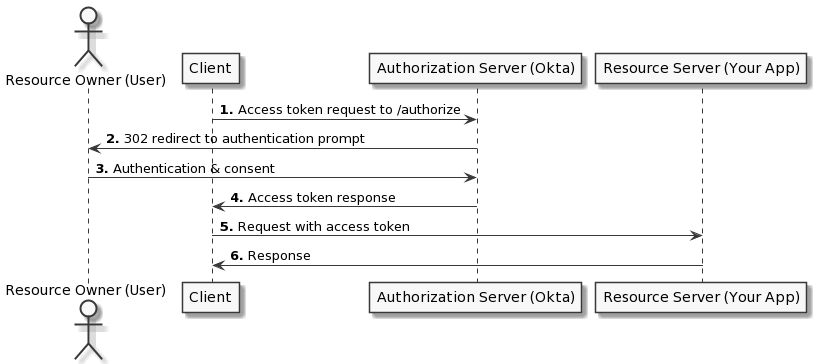
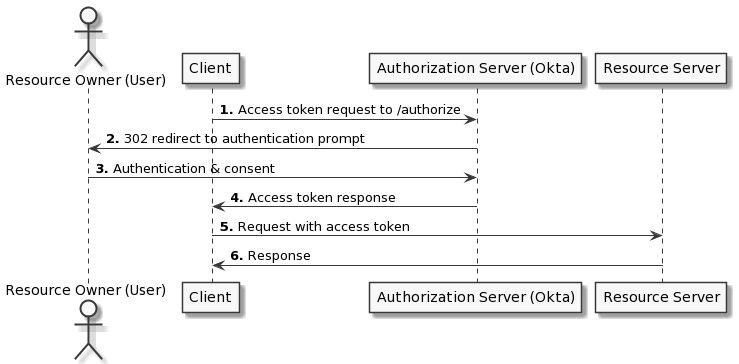
continue to reorganize implicit, auth code, auth code with pkce content

diff --git a/packages/@okta/vuepress-site/docs/guides/implement-grant-type/main/implicit/flow-diagram.md b/packages/@okta/vuepress-site/docs/guides/implement-grant-type/main/implicit/flow-diagram.md
@@ -1,4 +1,4 @@
-![Implicit flow width:](/img/authorization/oauth-implicit-grant-flow.png "Sequence diagram that displays the back and forth between the resource owner, authorization server, and resource server for Implicit grant flow")
+![Implicit flow](/img/authorization/oauth-implicit-grant-flow.png "Sequence diagram that displays the back and forth between the resource owner, authorization server, and resource server for Implicit grant flow")
 
 <!-- Source for image. Generated using http://www.plantuml.com/plantuml/uml/
 
@@ -6,7 +6,7 @@ skinparam monochrome true
 actor "Resource Owner (User)" as user
 participant "Client" as client
 participant "Authorization Server (Okta)" as okta
-participant "Resource Server (Your App)" as app
+participant "Resource Server" as app
 
 autonumber "<b>#."
 client -> okta: Access token request to /authorize
@@ -19,13 +19,15 @@ app -> client: Response
 -->
 The Implicit flow contains the following interactions:
 
-1. The User makes an access request to your app (the Client). Your app needs to handle this request and redirect the authentication request to the Auth Server (Okta). See [Redirect to Auth Server Code](#redirect-to-auth-server-for-code) to implement this request. Before implementing this request, you need to [Set up your app](#set-up-your-app) to obtain an Okta Client ID, that will 
-2. In Okta, you need to register your app so that Okta can accept the authentication request. See Set up your app to register and configure your app with Okta. After registration, Okta provides you with a Client ID that you can embed in your app to make a trusted request to Okta.
-3. Okta authenticates the user credentials. To do this, Okta needs the user profile data. 
-See Add app users. Alternatively, you can enable Self-service registration to allow users to register their membership with the app. Okta also needs to know where to redirect the ID token once authentication is successful. See Sign-in redirect URI parameter in Set up your app.
-4. Your app needs to implement the callback route to accept the redirect request from (3). See Define a callback route. This callback route path must match the Sign-in redirect URI configured in (3).
+1. The Client sends a request to the Auth Server (Okta) for an access token.<br>
+You need to register your app so that Okta can accept the authorization request. See [Set up your app](#set-up-your-app) to register and configure your app with Okta. After registration, your app can initiate this authorization request to Okta. See [Redirect to Auth Server](#redirect-to-auth-server) to implement this request.
 
-1. Your application directs the browser to the Okta Sign-In Page, where the user authenticates.
-1. Okta redirects the browser back to the specified redirect URI, along with access and ID tokens as a hash fragment in the URI.
-1. Your application extracts the tokens from the URI.
-1. Your application can now use these tokens to call the resource server (for example an API) on behalf of the user.
+2. The Auth Server redirects the User browser to an authentication prompt (the Okta Sign-In Page), where the user authenticates.
+
+3. User authenticates with the Auth Server (Okta) and provides consent. <br>
+In order for Okta to authenticate the user credentials, Okta needs user profile data.
+See [Add a user using Console](/docs/guides/quickstart/cli/add-user/). Alternatively, you can [Set up Self-service registration](/docs/guides/set-up-self-service-registration/) to allow users to register their membership with the app.
+
+4. Okta redirects the browser back to the specified redirect URI, along with access and ID tokens as a hash fragment in the URI.<br>
+The redirect URI is specified when your app was registered in Okta.
+5. Your application extracts the tokens from the URI and can now use these tokens to call the resource server (for example an API) on behalf of the user. See [Access token response](#access-token-response).

diff --git a/packages/@okta/vuepress-site/docs/guides/implement-grant-type/main/authcode/use-flow.md b/packages/@okta/vuepress-site/docs/guides/implement-grant-type/main/authcode/use-flow.md
@@ -1,3 +1,5 @@
+### Use the Authorization Code flow
+
 To get an authorization code, your app redirects the user to your [Authorization Server's](/docs/concepts/auth-servers/) `/authorize` endpoint. If you are using the default Custom Authorization Server, then your request URL would look something like this:
 
 ```
@@ -22,3 +24,52 @@ http://localhost:8080/?code=P5I7mdxxdv13_JfXrCSq&state=state-296bc9a0-a2a2-4a57-
 ```
 
 This code remains valid for 300 seconds, during which it can be exchanged for tokens.
+
+### Exchange the code for tokens
+
+To exchange this code for access and ID tokens, you pass it to your [Authorization Server's](/docs/concepts/auth-servers/) `/token` endpoint. If you are using the default Custom Authorization Server, then your request would look something like this:
+
+```
+curl --request POST \
+  --url https://${yourOktaDomain}/oauth2/default/v1/token \
+  --header 'accept: application/json' \
+  --header 'authorization: Basic MG9hY...' \
+  --header 'content-type: application/x-www-form-urlencoded' \
+  --data 'grant_type=authorization_code&redirect_uri=http%3A%2F%2Flocalhost%3A8080&code=P59yPm1_X1gxtdEOEZjn'
+```
+
+> **Important:** The call to the `/token` endpoint requires authentication. In this case, it is a Basic Auth digest of the Client ID and secret. You can find the Client ID and secret on your application's **General** tab. This requirement is why this call is only appropriate for applications that can guarantee the confidentiality of the client secret. See [Client Authentication Methods](/docs/reference/api/oidc/#client-authentication-methods).
+
+Note the parameters that are being passed:
+
+- `grant_type` is `authorization_code`, indicating that we are using the authorization code grant type.
+- `redirect_uri` must match the URI that was used to get the authorization code.
+- `code` is the authorization code that you got from the `/authorize` endpoint.
+
+See the [OAuth 2.0 API reference](/docs/reference/api/oidc/#token) for more information on these parameters.
+
+If the code is still valid, your application receives back access and ID tokens:
+
+```json
+{
+    "access_token": "eyJhbG[...]9pDQ",
+    "token_type": "Bearer",
+    "expires_in": 3600,
+    "scope": "openid",
+    "id_token": "eyJhbG[...]RTM0A"
+}
+```
+
+### Validate access tokens
+
+When your application passes a request with an `access_token`, the resource server needs to validate it. See [Validate access tokens](/docs/guides/validate-access-tokens/).
+
+### Examples
+
+The following web application examples show you the Authorization Code flow, as it would be implemented by a web app that needs to authenticate the end user and then create a local session for that user. These projects use popular web frameworks to handle the heavy lifting. Each project can be cloned and ran locally.
+
+|                                       | Framework    | Example Repository                                             |
+| :-----------------------------------: | ------------ | -------------------------------------------------------------- |
+| <i class="icon code-dotnet-32"></i>   | ASP.NET Core | <https://github.com/oktadeveloper/okta-aspnetcore-mvc-example> |
+| <i class="icon code-nodejs-32"></i>   | Express.js   | <https://github.com/okta/samples-nodejs-express-4>             |
+| <i class="icon code-java-32"></i>     | Spring       | <https://github.com/okta/samples-java-spring-mvc>              |

diff --git a/packages/@okta/vuepress-site/docs/guides/implement-grant-type/main/authcodepkce/use-flow.md b/packages/@okta/vuepress-site/docs/guides/implement-grant-type/main/authcodepkce/use-flow.md
@@ -1,3 +1,5 @@
+### Use the Authorization Code flow with PKCE
+
 Just like with the regular Authorization Code flow, your app starts by redirecting the user's browser to your [Authorization Server's](/docs/concepts/auth-servers/) `/authorize` endpoint. However, in this instance you also have to pass along a code challenge.
 
 Your first step is to generate a code verifier and challenge:
@@ -43,3 +45,53 @@ yourApp:/callback?code=BdLDvZvO3ZfSwg-asLNk&state=state-8600b31f-52d1-4dca-987c-
 ```
 
 This code can only be used once, and remains valid for 300 seconds, during which time it can be exchanged for tokens.
+
+### Exchange the code for tokens
+
+To exchange this code for access and ID tokens, you pass it to your [Authorization Server's](/docs/concepts/auth-servers/) `/token` endpoint along with the `code_verifier` that was generated at the beginning:
+
+```
+curl --request POST \
+  --url https://${yourOktaDomain}/oauth2/default/v1/token \
+  --header 'accept: application/json' \
+  --header 'cache-control: no-cache' \
+  --header 'content-type: application/x-www-form-urlencoded' \
+  --data 'grant_type=authorization_code&client_id=0oabygpxgk9lXaMgF0h7&redirect_uri=yourApp%3A%2Fcallback&code=CKA9Utz2GkWlsrmnqehz&code_verifier=M25iVXpKU3puUjFaYWg3T1NDTDQtcW1ROUY5YXlwalNoc0hhakxifmZHag'
+```
+
+> **Important:** Unlike the regular [Authorization Code flow](/docs/guides/implement-auth-code/), this call doesn't require the Authorization header with the Client ID and secret. That is why this version of the Authorization Code flow is appropriate for native apps.
+
+Note the parameters that are being passed:
+
+- `grant_type` is `authorization_code`, indicating that we are using the authorization code grant type.
+- `redirect_uri` must match the URI that was used to get the authorization code.
+- `code` is the authorization code that you got from the `/authorize` endpoint.
+- `code_verifier` is the PKCE code verifier that your app generated at the beginning of this flow.
+- `client_id` identifies your client and must match the value preregistered in Okta.    
+
+See the [OIDC & OAuth 2.0 API reference](/docs/reference/api/oidc/#token) for more information on these parameters.
+
+If the code is still valid, and the code verifier matches, your application receives back access and ID tokens:
+
+```json
+{
+    "access_token": "eyJhb[...]Hozw",
+    "expires_in": 3600,
+    "id_token": "eyJhb[...]jvCw",
+    "scope": "openid",
+    "token_type": "Bearer"
+}
+```
+
+### Validate access tokens
+
+When your application passes a request with an access token, the resource server needs to validate it. See [Validate access tokens](/docs/guides/validate-access-tokens/).
+
+### Examples
+
+The following native application examples show the Authorization Code flow, as it would be implemented by a native application that needs to authenticate a user. These are complete example applications that show the entire experience.
+
+|                                        | Environment | Example Repository                                 |
+| :------------------------------------: | ----------- | -------------------------------------------------- |
+| <i class="icon code-android-32"></i>   | Android     | <https://github.com/okta/okta-oidc-android> |
+| <i class="icon code-ios-32"></i>       | iOS         | <https://github.com/okta/okta-oidc-ios>            |

diff --git a/packages/@okta/vuepress-site/docs/guides/implement-grant-type/main/index.md b/packages/@okta/vuepress-site/docs/guides/implement-grant-type/main/index.md
@@ -16,53 +16,37 @@ Select the authorization grant-type flow to implement: <StackSelector />
 
 <StackSnippet snippet="flow-diagram"/>
 
-### Flow usage
-
-<StackSnippet snippet="use-flow" />
-
 ### Set up your app
+
+Before you can implement authorization, you need to register your app in Okta by creating an Okta app integration from the Admin Console.
 
 <StackSnippet snippet="setup-app" />
 
-- Stack selector for App Wizard settings
-
-| Parameter | Description        |
-| --------- | ----------- |
-| Sign-on method  | xxx |
-| App type  | xxx |
-| Grant type | xxx |
-| Sign-in redirect URIs | xxx |
-
+Save the Okta Client ID (`client_id`) value generated from the created app integration to implement your authorization flow.
 
 ### Install an Okta SDK
 
-- stack selector for which SDK you can use for the grant type
-- this could be links to other actions from the Sign-in guides
+Okta provides an array of language and framework SDKs to speed up implementing authorization with Okta. See [Languages & SDKs overivew](/code/) for a list of SDKs you can download to start using with your app.
 
-### Redirect to Auth Server for code
+<StackSnippet snippet="install-sdk" />
 
-- stack selector for info on how to implement redirect to auth server for code
-- this could be links to other actions from the Sign-in guides
+<!-- "Redirect to Auth Server" , "Flow usage" , "Exchange authorization code for token", "Scopes", "Get access token" grant-specific content -->
 
-### Exchange authorization code for token
+<StackSnippet snippet="use-flow" />
 
-- stack selector for info on how to implement redirect to auth server for token, if required
-- this could be links to the Sign-in guides
+<!-- ### Exchange authorization code for token -->
 
-### Scopes
-
-- stack selector for scope instructions, if required
-
-### Get access token
-
-- stack selector for get access token instructions, if required
+<!-- ### Get access token -->
 
 ### Next steps
 
+<StackSnippet snippet="nextsteps" />
+
 Now that you have implemented Authorization in your app, you can add features such as
 
-* Self-service enrollment
+* [Self-service enrollment](/docs/guides/set-up-self-service-registration/)
 * MFA
+* Brand customization ([custom domain](/docs/guides/custom-url-domain/), [custom SMS messages](/docs/guides/sms-customization/), [custom emails](/docs/guides/email-customization/))
 * Authentication recovery
 * Progressive profiling
 

diff --git a/packages/@okta/vuepress-site/docs/guides/implement-grant-type/main/authcode/flow-diagram.md b/packages/@okta/vuepress-site/docs/guides/implement-grant-type/main/authcode/flow-diagram.md
@@ -1,1 +1,20 @@
-![Auth Code flow width:](/img/oauth_auth_code_flow.png "Flowchart that displays the back and forth between the resource owner, authorization server, and resource server for Auth Code flow")
+![Authorization Code flow](/img/oauth_auth_code_flow.png "Sequence diagram that displays the back and forth between the resource owner, authorization server, and resource server for Auth Code flow")
+
+At a high-level, this flow has the following steps:
+
+- Your application directs the browser to the Okta sign-in page, where the user authenticates.
+- The browser receives an authorization code from your Okta Authorization Server.
+- The authorization code is passed to your application.
+- Your application sends this code to Okta, and Okta returns access and ID tokens, and optionally a refresh token.
+- Your application can now use these tokens to call the resource server (for example an API) on behalf of the user.
+
+<!--
+Your app (the Client) directs the browser to the Okta Sign-In Page (Auth Server), where the user authenticates.
+Your app needs to redirect this authentication request to the Auth Server (Okta). See Redirect to Auth Server to implement this request. Before implementing this request, you need to Set up your app in Okta to obtain an Okta Client ID.
+
+In Okta, you need to register your app so that Okta can accept the authentication request. See Set up your app to register and configure your app with Okta. After registration, Okta provides you with a Client ID that you can embed in your app to make a trusted request to Okta.
+
+Okta authenticates the user credentials. To do this, Okta needs the user profile data. See Add app users. Alternatively, you can enable Self-service registration to allow users to register their membership with the app. Okta also needs to know where to redirect the ID token once authentication is successful. See Sign-in redirect URI parameter in Set up your app.
+
+Your app needs to implement the callback route to accept the redirect request from (3). See Define a callback route. This callback route path must match the Sign-in redirect URI configured in (3).
+-->

diff --git a/packages/@okta/vuepress-site/docs/guides/implement-grant-type/main/implicit/use-flow.md b/packages/@okta/vuepress-site/docs/guides/implement-grant-type/main/implicit/use-flow.md
@@ -1,3 +1,5 @@
+### Redirect to Auth Server
+
 Using this flow is very similar to the [authorization code flow](/docs/guides/implement-auth-code/) except that the `response_type` is `token` and/or `id_token` instead of `code`.
 
 Your application redirects the user's browser to your [Authorization Server's](/docs/concepts/auth-servers/) `/authorize` endpoint. If you are using the default Custom Authorization Server, then your request URL would look something like this:
@@ -16,6 +18,8 @@ Note the parameters that are being passed:
 
 See the [OAuth 2.0 API reference](/docs/reference/api/oidc/#authorize) for more information on these parameters.
 
+###  Access token response
+
 If the user doesn't have an existing session, the request opens the Okta Sign-in Page. If they have an existing session, or after they authenticate, the user is redirected back to the specified `redirect_uri` along with a `token` as a hash fragment:
 
 ```
@@ -23,3 +27,15 @@ http://${yourOktaDomain}/#access_token=eyJhb[...]erw&token_type=Bearer&expires_i
 ```
 
 Your application must now extract the token(s) from the URI and store them.
+
+When your application passes a request with an access token, the resource server needs to validate it. See [Validate access tokens](/docs/guides/validate-access-tokens/).
+
+### Examples
+
+The following quickstart guides show you how to integrate the Implicit flow into your front-end application.
+
+|                                           | Framework         | Quickstart Link                                   |
+| :---------------------------------------: | ----------------- | ------------------------------------------------- |
+| <i class="icon code-angular-32"></i>      | Angular           | <https://developer.okta.com/quickstart/#/angular> |
+| <i class="icon code-react-32"></i>        | React             | <https://developer.okta.com/quickstart/#/react>   |
+| <i class="icon code-javascript-32"></i>   | Vanilla JS        | <https://developer.okta.com/quickstart/#/widget>  |

diff --git a/packages/@okta/vuepress-site/docs/guides/implement-grant-type/main/authcodepkce/overview.md b/packages/@okta/vuepress-site/docs/guides/implement-grant-type/main/authcodepkce/overview.md
@@ -1,13 +1,5 @@
 If you are building a native application, then the Authorization Code flow with a Proof Key for Code Exchange (PKCE) is the recommended method for controlling the access between your application and a resource server.
 
-> **Note:** Some browsers have begun blocking third-party cookies by default, disrupting Okta functionality in certain flows. See [FAQ: How Blocking Third Party Cookies Can Potentially Impact Your Okta Environment](https://support.okta.com/help/s/article/FAQ-How-Blocking-Third-Party-Cookies-Can-Potentially-Impact-Your-Okta-Environment).
-
-The Authorization Code flow with PKCE is the standard code flow with an extra step at the beginning and an extra verification at the end. At a high-level, the flow has the following steps:
-
-- Your application generates a code verifier followed by a code challenge.
-- Your application directs the browser to the Okta sign-in page, along with the generated code challenge, and the user authenticates.
-- Okta redirects back to your native application with an authorization code.
-- Your application sends this code, along with the code verifier, to Okta. Okta returns access and ID tokens, and optionally a refresh token.
-- Your application can now use these tokens to call the resource server (for example, an API) on behalf of the user.
-
 See our [OAuth 2.0 overview](/docs/concepts/oauth-openid/#authorization-code-with-pkce-flow) for more information on the authorization code with PKCE flow, including why to use it.
+
+> **Note:** Some browsers have begun blocking third-party cookies by default, disrupting Okta functionality in certain flows. See [FAQ: How Blocking Third Party Cookies Can Potentially Impact Your Okta Environment](https://support.okta.com/help/s/article/FAQ-How-Blocking-Third-Party-Cookies-Can-Potentially-Impact-Your-Okta-Environment).

diff --git a/packages/@okta/vuepress-site/docs/guides/implement-grant-type/main/implicit/setup-app.md b/packages/@okta/vuepress-site/docs/guides/implement-grant-type/main/implicit/setup-app.md
@@ -1,10 +1,10 @@
-You set up your OpenID Connect application inside the Okta Admin Console:
+See [Create an Okta app integration](/docs/guides/sign-into-spa/-/create-okta-application/) for step-by-step instructions to create an app integration with the following parameters for Implicit flow:
 
-1. In the Admin Console, go to **Applications** > **Applications**.
-1. Click **Create App Integration**.
-1. On the Create a new app integration page, select **OIDC - OpenID Connect** as the **Sign-in method**.
-1. Select **Single-Page Application** and click **Next**.
+ Parameter | Required Value for Implicit flow       |
+| --------- | ----------- |
+| Sign-in method  | **OIDC - OpenID Connect** |
+| Application type  | **Single-Page Application**  |
+| Grant type | **Implicit (Hybrid)** |
+| Sign-in redirect URIs | Specify the callback location where the user agent is directed to along with the access token. |
 
-    > **Note:** It is important to choose the appropriate application type for apps that are public clients. Failing to do so may result in Okta API endpoints attempting to verify an app's client secret, which public clients are not designed to have, and would break the sign-in or sign-out flow.
-
-1. Fill in the settings for your app integration, then click **Save**.
+   > **Note:** It is important to choose the appropriate application type for apps that are public clients. Failing to do so may result in Okta API endpoints attempting to verify an app's client secret, which public clients are not designed to have, and would break the sign-in or sign-out flow.

diff --git a/packages/@okta/vuepress-site/docs/guides/implement-grant-type/main/authcode/overview.md b/packages/@okta/vuepress-site/docs/guides/implement-grant-type/main/authcode/overview.md
@@ -1,13 +1,5 @@
 If you are building a server-side (or web) application that is capable of securely storing secrets, then the authorization code flow is the recommended method for controlling access to it.
 
-> **Note:** Some browsers have begun blocking third-party cookies by default, disrupting Okta functionality in certain flows. See [FAQ: How Blocking Third Party Cookies Can Potentially Impact Your Okta Environment](https://support.okta.com/help/s/article/FAQ-How-Blocking-Third-Party-Cookies-Can-Potentially-Impact-Your-Okta-Environment).
-
-At a high-level, this flow has the following steps:
-
-- Your application directs the browser to the Okta sign-in page, where the user authenticates.
-- The browser receives an authorization code from your Okta Authorization Server.
-- The authorization code is passed to your application.
-- Your application sends this code to Okta, and Okta returns access and ID tokens, and optionally a refresh token.
-- Your application can now use these tokens to call the resource server (for example an API) on behalf of the user.
-
 See our [OAuth 2.0 overview](/docs/concepts/oauth-openid/#authorization-code-flow) for more information on the Authorization Code flow, including why to use it.
+
+> **Note:** Some browsers have begun blocking third-party cookies by default, disrupting Okta functionality in certain flows. See [FAQ: How Blocking Third Party Cookies Can Potentially Impact Your Okta Environment](https://support.okta.com/help/s/article/FAQ-How-Blocking-Third-Party-Cookies-Can-Potentially-Impact-Your-Okta-Environment).

diff --git a/packages/@okta/vuepress-site/docs/guides/implement-grant-type/main/authcodepkce/flow-diagram.md b/packages/@okta/vuepress-site/docs/guides/implement-grant-type/main/authcodepkce/flow-diagram.md
@@ -1,1 +1,9 @@
-![Auth Code flow with PKCE width:](/img/oauth_auth_code_flow_pkce.png "Flowchart that displays the back and forth between the resource owner, authorization server, and resource server for Auth Code flow with PKCE")
+![Auth Code flow with PKCE](/img/oauth_auth_code_flow_pkce.png "Flowchart that displays the back and forth between the resource owner, authorization server, and resource server for Auth Code flow with PKCE")
+
+The Authorization Code flow with PKCE is the standard code flow with an extra step at the beginning and an extra verification at the end. At a high-level, the flow has the following steps:
+
+- Your application generates a code verifier followed by a code challenge.
+- Your application directs the browser to the Okta sign-in page, along with the generated code challenge, and the user authenticates.
+- Okta redirects back to your native application with an authorization code.
+- Your application sends this code, along with the code verifier, to Okta. Okta returns access and ID tokens, and optionally a refresh token.
+- Your application can now use these tokens to call the resource server (for example, an API) on behalf of the user.

diff --git a/packages/@okta/vuepress-site/docs/guides/implement-grant-type/main/authcode/setup-app.md b/packages/@okta/vuepress-site/docs/guides/implement-grant-type/main/authcode/setup-app.md
@@ -1,6 +1,8 @@
-You set up your OpenID Connect application inside the Okta Admin Console:
+See [Create an Okta app integration](/docs/guides/sign-into-web-app/-/create-okta-application/) for step-by-step instructions to create an app integration with the following parameters for Authorization Code flow:
 
-1. In the Admin Console, go to **Applications** > **Applications**.
-1. Click **Create App Integration**.
-1. On the Create a new app integration page, select **OIDC - OpenID Connect** for the **Sign-in method** and then select **Web Application** as the **Application type**.
-1. Fill in the **Application Settings**. The **Sign-in redirect URIs** must match a URI that your user can be redirected to with their authorization code. Click **Done**.
+ Parameter | Required Value for Authorization Code flow       |
+| --------- | ----------- |
+| Sign-in method  | **OIDC - OpenID Connect** |
+| Application type  | **Web Application**  |
+| Grant type | **Authorization Code** |
+| Sign-in redirect URIs | Specify the callback location to redirect the user with their authorization code. |

diff --git a/packages/@okta/vuepress-site/docs/guides/implement-grant-type/main/clientcreds/nextsteps.md b/packages/@okta/vuepress-site/docs/guides/implement-grant-type/main/clientcreds/nextsteps.md
@@ -1,0 +1,11 @@
+When your application passes a request with an access token, the resource server needs to validate it. See [Validate access tokens](/docs/guides/validate-access-tokens/).
+
+### Examples
+
+The following quickstart guides show you how to integrate the Implicit flow into your front-end application.
+
+|                                           | Framework         | Quickstart Link                                   |
+| :---------------------------------------: | ----------------- | ------------------------------------------------- |
+| <i class="icon code-angular-32"></i>      | Angular           | <https://developer.okta.com/quickstart/#/angular> |
+| <i class="icon code-react-32"></i>        | React             | <https://developer.okta.com/quickstart/#/react>   |
+| <i class="icon code-javascript-32"></i>   | Vanilla JS        | <https://developer.okta.com/quickstart/#/widget>  |
